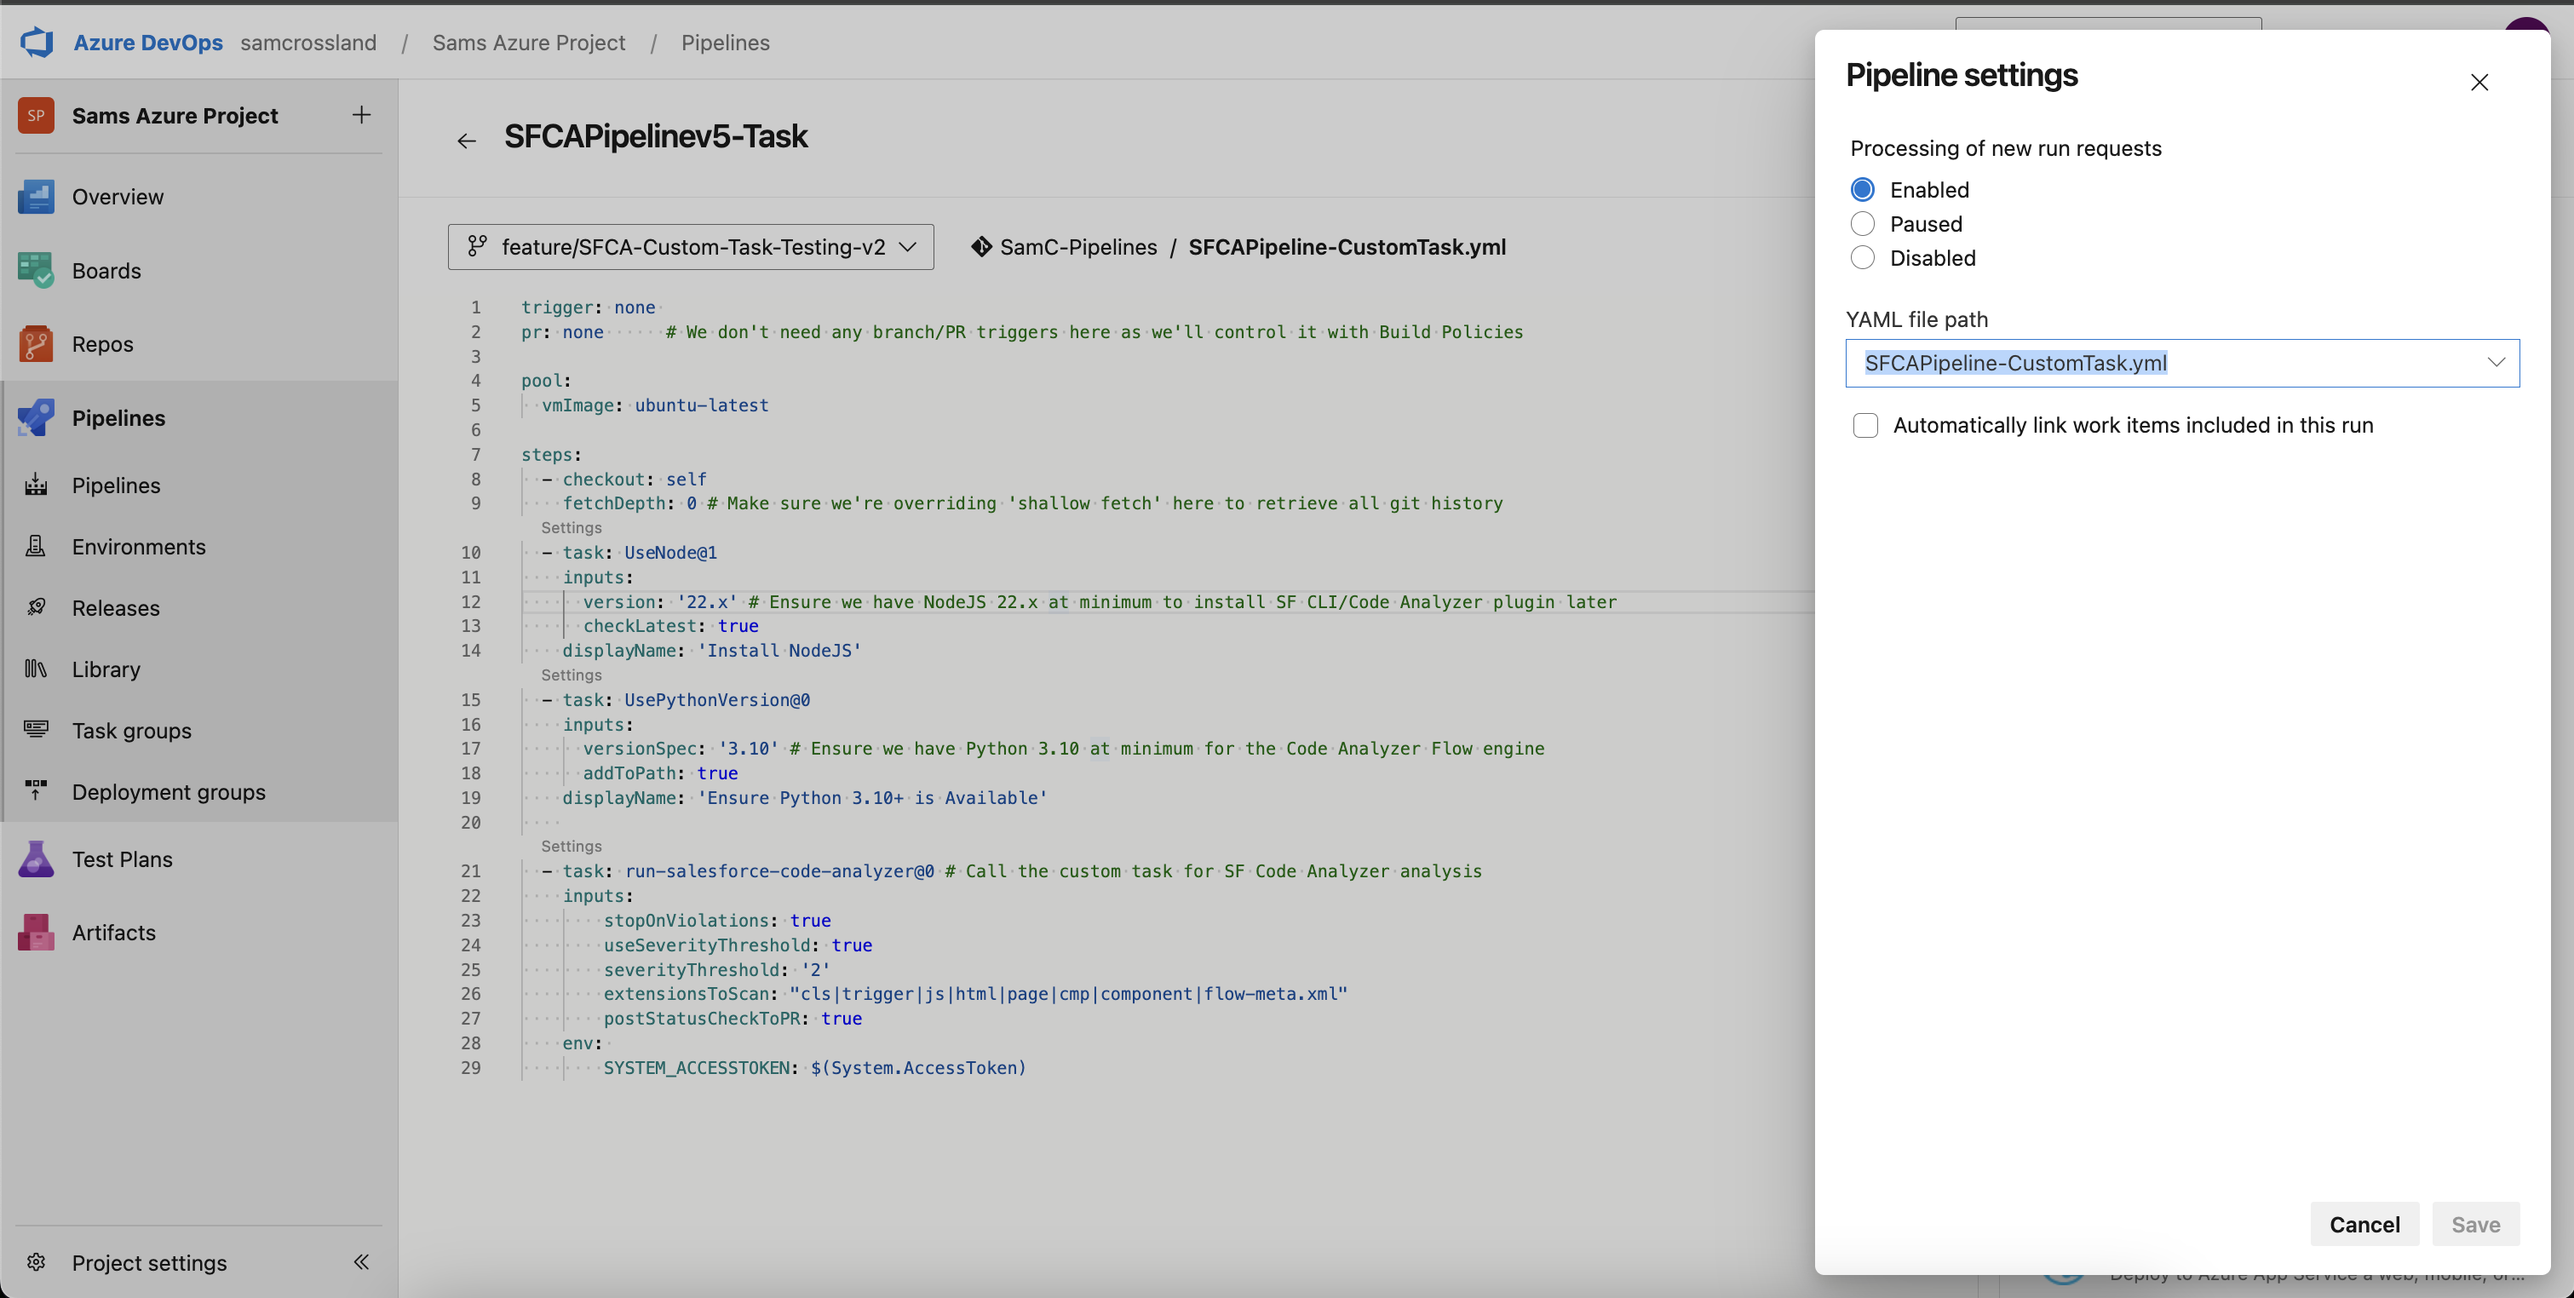
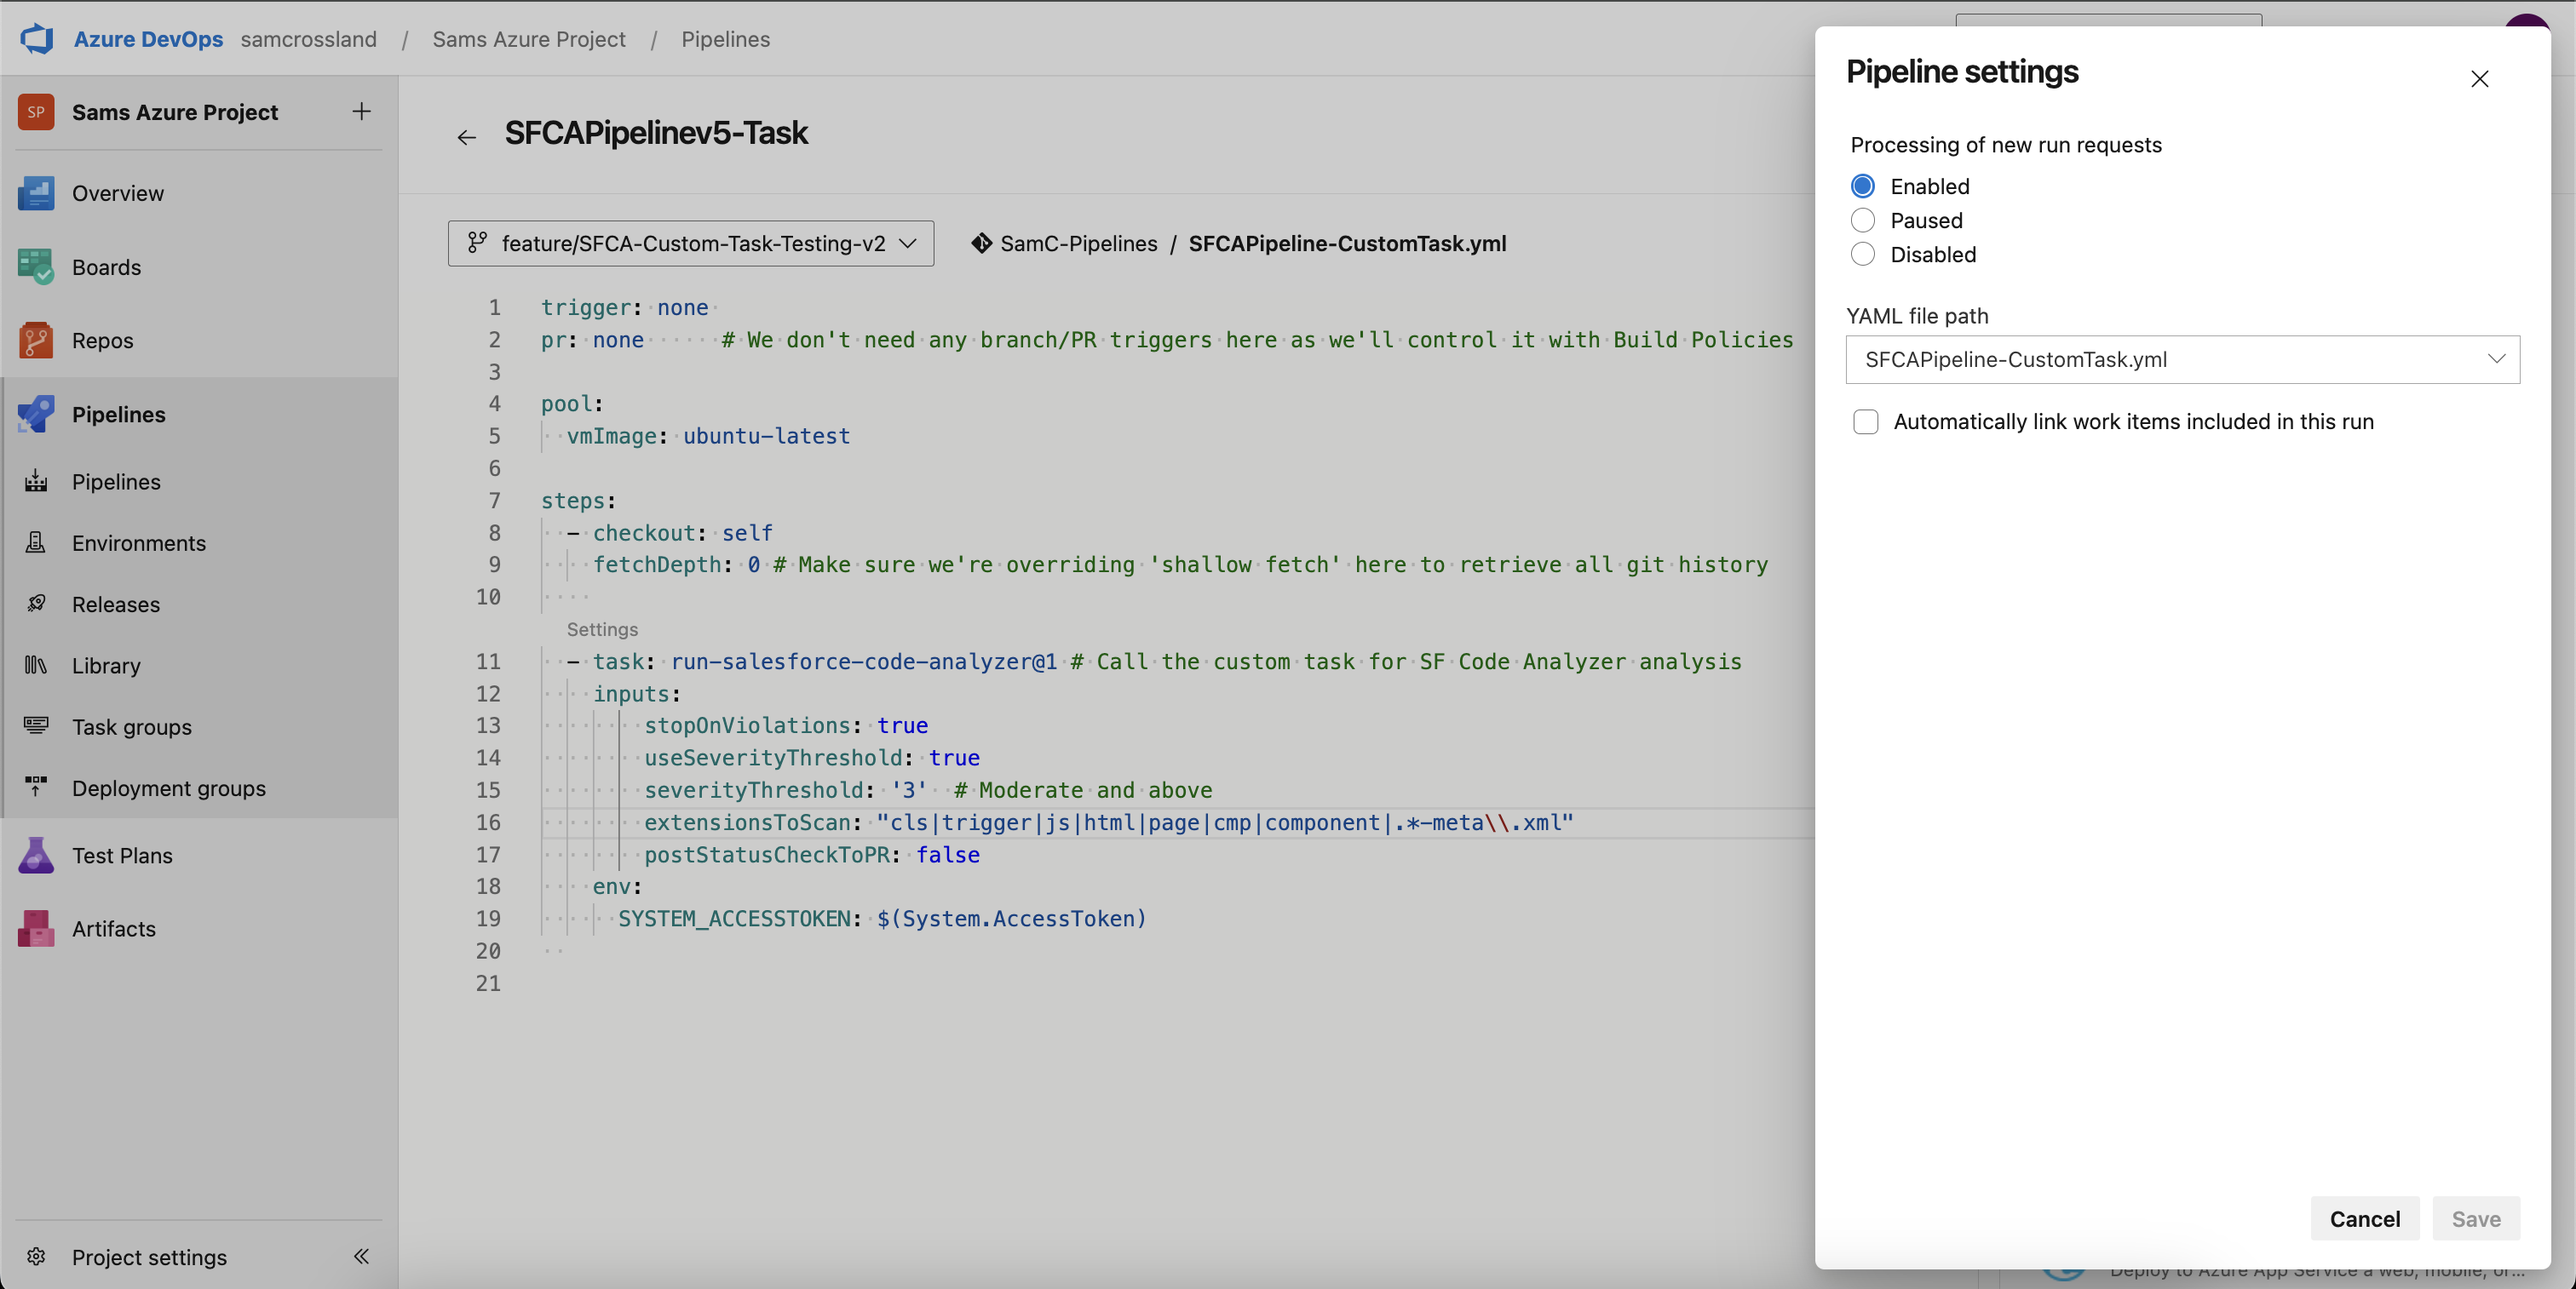
Updated readme/overview and screenshot of the yml file, to account for better file extension detection

diff --git a/SFCAADO-CustomTasks/overview.md b/SFCAADO-CustomTasks/overview.md
@@ -2,18 +2,20 @@
 
 This extension allows you to run Salesforce Code Analyzer v5 on the changed files in a pull request. It reports code violations, publishes results, and can fail the build to let you block merges. It follows a fail fast approach if there's no relevant files and skips the rest of the logic, gives you artifacts to analyse after a valid run, and provides detailed logs and feedback to that PR once complete.
 
-
 ## Key Features
 
 - Threshold capabilities for the amount of issues you would accept before failing the build, or any issues above a particular severity
 - Installs and uses the latest version of Salesforce Code Analyzer, currently v5
 - Scans only changed files in PRs (delta scanning), using dynamic engine selection of the code-analyzer package
-- Outputs results as artifacts (html report and each changed file) for investigation
+- Outputs results as artifacts (html report, json file, and each changed file) for investigation
 - Optional PR status check POST onto the PR for extra visibility
 
 ## Requirements
 
 - Azure DevOps (Cloud only), with an available build agent and permissions to configure the pipeline
+- Pipeline must run on `ubuntu-latest`
+- Node.js 20+ and Python 3.10+ must be available (these are already baked into ubuntu-latest, but you can explicitly check via `UseNode@1` and `UsePythonVersion@0` if necessary)
+- `checkout` step must override `fetchDepth` to 0 (no shallow fetching) for proper git diffing
 - Pull request build validation setup using a .yml file and ADO Build Policies
 - Your build user having 'Contribute to pull requests' permission if using the 'postStatusCheckToPR' option
 
@@ -54,7 +56,7 @@ steps:
         stopOnViolations: true
         useSeverityThreshold: true
         severityThreshold: '3'  # Moderate and above
-        extensionsToScan: "cls|trigger|js|html|page|cmp|component|flow-meta.xml"
+        extensionsToScan: "cls|trigger|js|html|page|cmp|component|.*-meta\\.xml" # Include meta xml files of flows/apex to check for old versions
         postStatusCheckToPR: false
 ```
 

diff --git a/README.md b/README.md
@@ -21,9 +21,9 @@ See [this](https://devopslaunchpad.com/blog/salesforce-code-analyzer/) detailed 
 ## ✅ Requirements
 
 - Pipeline must run on `ubuntu-latest`
-- Node.js 20+ and Python 3.10+ must be available (via `UseNode@1` and `UsePythonVersion@0`)
+- Node.js 20+ and Python 3.10+ must be available (these are already baked into ubuntu-latest, but you can explicitly check via `UseNode@1` and `UsePythonVersion@0` if necessary)
 - PR build validation policies must be set up to control trigger behavior
-- `checkout` step must override `fetchDepth` to 0 for proper git diffing
+- `checkout` step must override `fetchDepth` to 0 (no shallow fetching) for proper git diffing
 
 ---
 
@@ -56,6 +56,7 @@ This allows the task to authenticate against the Azure DevOps API to post the re
 
 - Published artefacts on the Pipeline Build, including:
 - Scan results HTML: `SFCAv5Results.html`
+- Scan results JSON: `SFCAv5Results.json`
 - Delta files scanned: Copied into artifact directory under 'scanned-delta-files'
 - Optional status posted back to the source PR if necessary
 
@@ -79,7 +80,7 @@ steps:
       stopOnViolations: true
       useSeverityThreshold: true
       severityThreshold: '3'  # Moderate and above
-      extensionsToScan: "cls|trigger|js|html|page|cmp|component|flow-meta.xml"
+      extensionsToScan: "cls|trigger|js|html|page|cmp|component|.*-meta\\.xml" # Include meta xml files of flows/apex to check for old versions
       postStatusCheckToPR: true
     env:
       SYSTEM_ACCESSTOKEN: $(System.AccessToken)
